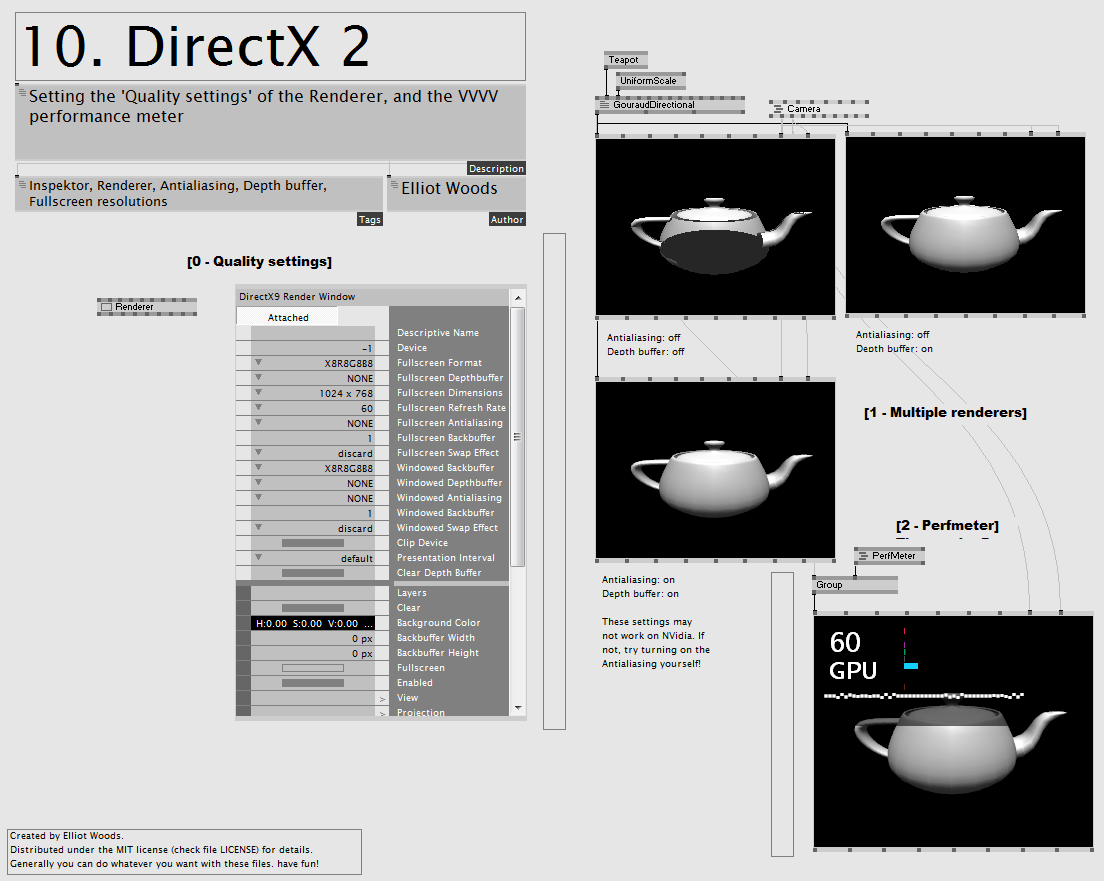
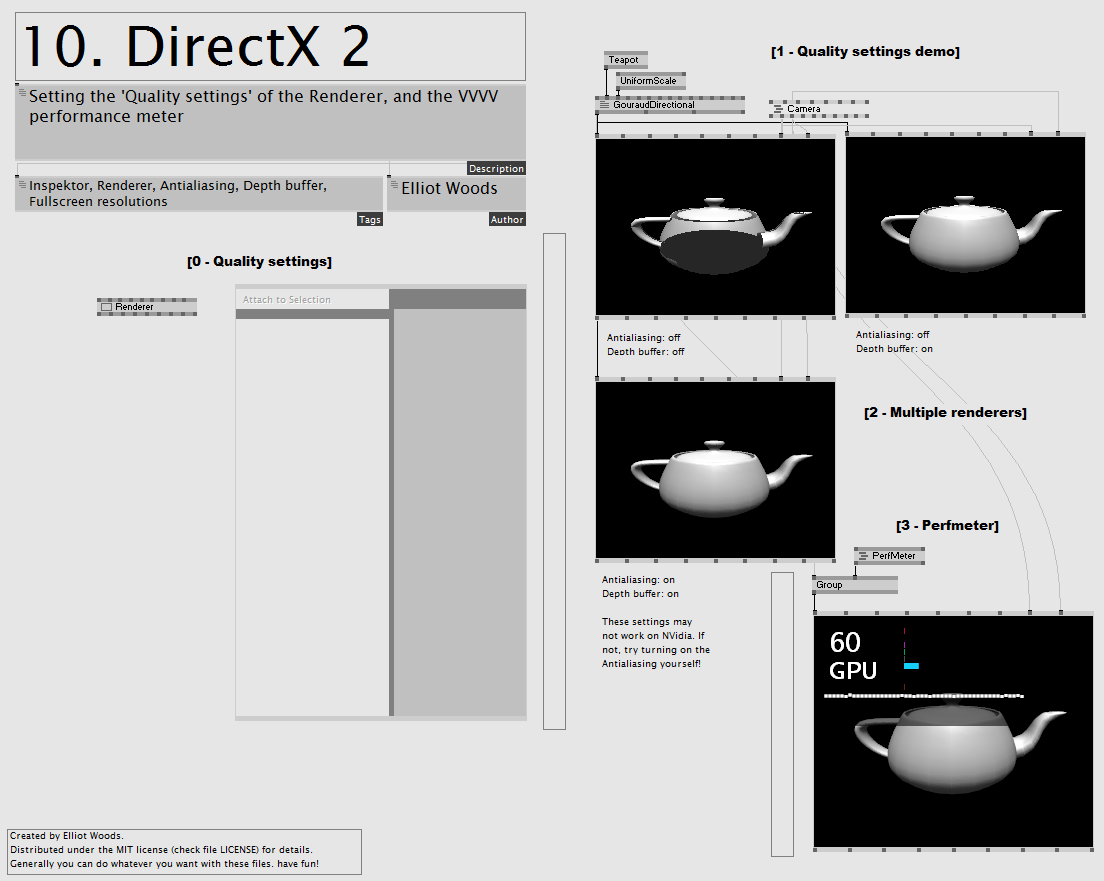
Finished first set of tutorials(missing logic)

Changed region(s): [[0.2156, 0.3065, 0.4928, 0.8275], [0.7083, 0.0306, 0.8623, 0.0613]]

diff --git a/10. DirectX 2.html b/10. DirectX 2.html
@@ -24,9 +24,13 @@
 <img src="C:\kimchiandchips\Workshops\VVVV.Tutorials.Fundamentals\10. DirectX 2.png" />
 <h2>0 - Quality settings</h2>
 <p>    The <node>Renderer (EX9)</node> has plenty of settings hidden away in the <node>Inspektor</node>. Here are some of the ones you definitely want to become familiar with:  </p><p>    <ul>  <li><pin>Fullscreen Depthbuffer</pin> - For 3D scenes you generall want to turn this 'on', i.e. choose a setting other than <b>NONE</b>. The <concept>Depth Buffer</concept> is what that graphics card uses to detect when objects are in front of each other, so it knows how to draw them properly</li>  <li><pin>Fullscreen Dimensions</pin> - When you make your renderer fullscreen, this is the resolution that it will use. The renderer will become fullscreen on whatever screen it is on at that time, i.e. if you want it to come up on the second screen, you must drag the renderer window to there before going fullscreen. Also by doing this, you will have the correct list of resolutions for that screen</li>  <li><pin>Fullscreen Antialiasing</pin> - This smooths the edges of objects, generally turn this on to make graphics look detailed and smooth. Depending on your graphics card different options will be available.</li>  <li><pin>Windowed Depthbuffer</pin> - Same as <pin>Fullscreen Depthbuffer</pin>, but this option applies instead when the renderer is not fullscreen</li>  <li><pin>Windowed Antialiasing</pin> - Same as above</li>  </ul>    </p><p>    The most important thing most of the time is to make sure to turn on Antialiasing and Depthbuffer.  </p><p>    To demonstrate this, I've created 3 renderers at the side which share a common scene and a common camera. They each have different settings for <pin>Windowed Antialiasing</pin> and <pin>Windowed Depthbuffer</pin>.    WARNING: The <node>Inspektor</node> locked inside this patch will block you opening up another <node>Inspektor</node>. But if you turn off the <b>Attached</b> button, then it will start acting like a normal <node>Inspektor</node> (albeit inside the patch rather than in a window).</p>
-<h2>1 - Multiple renderers</h2>
+<h2>1 - Quality settings demo</h2>
+<p>  Here we demonstrate 3 <node>Renderer</node>s with different quality settings so that you can compare and identify the differences.  </p><p>    Feel free to patch this out for yourself, but for the sake of this tutorial, we wont go through it step by step.  </p><p>    Another new bit is the <node>GourandDirectional</node> shader (more on that in the next tutorial!).  </p>
+<h2>2 - Multiple renderers</h2>
 <p>  Here we're also demonstraing something that VVVV does effortlessly:  </p><p>  Rendering the same objects to multiple <node>Renderer</node>'s.  </p><p>  In fact, with VVVV you can mix and match <node>Renderer</node>'s however you like. It's a real strength of the platform. And something that isn't properly available on any other hardware accelerated platform for media arts use.</p>
-<h2>2 - Perfmeter</h2>
+<h2>3 - Perfmeter</h2>
 <p>  The <node>PerfMeter (Debug)</node> node gives you vital information about how your computer is performing and what is slowing it down.  </p><p>    The big number is the <concept>Framerate</concept> which is measured in <concept>Frames Per Second (fps)</concept>. You generally want this to be the same as your <concept>Refresh rate</concept> (commonly 60Hz, therefore 60fps is best).  </p><p>    The running graph is the history of your framerate, and the other graphs give you more detailed information as to what is taking up your processing time.  </p><p>    An ideal situation is generally a nice flat line at 60fps.</p>
+<h2></h2>
+<p></p>
 </body>
 </html>
